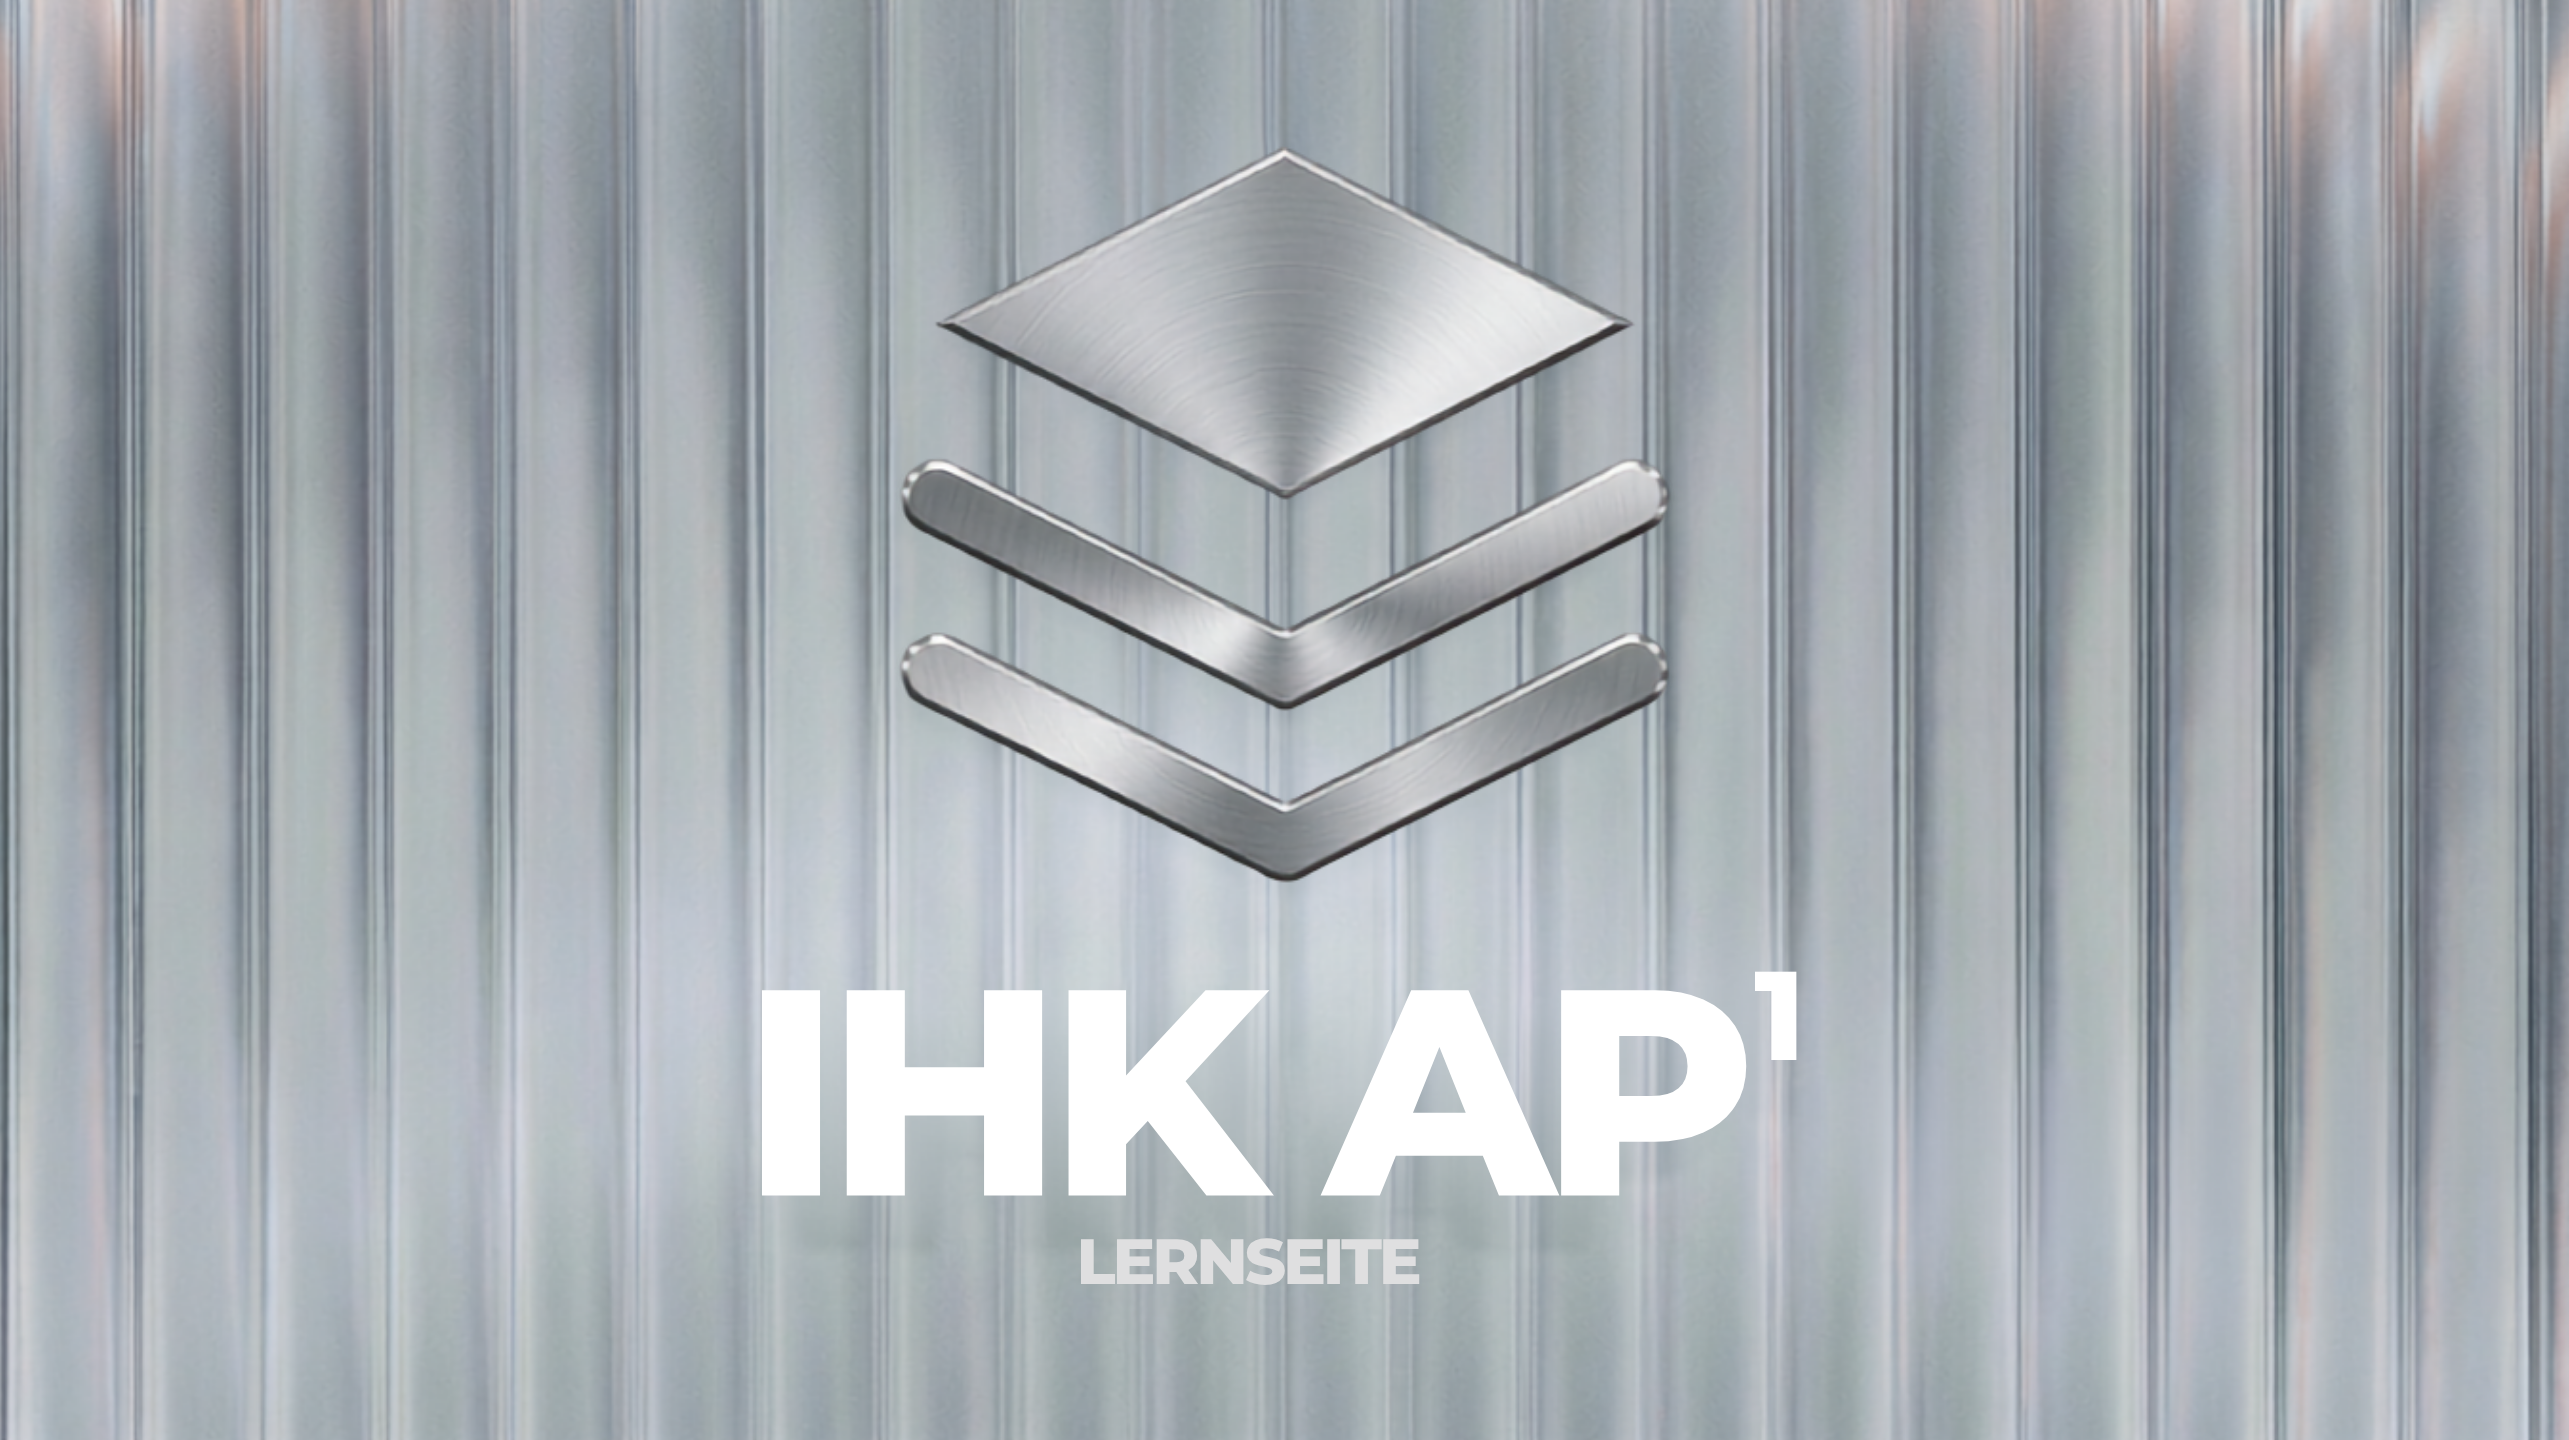
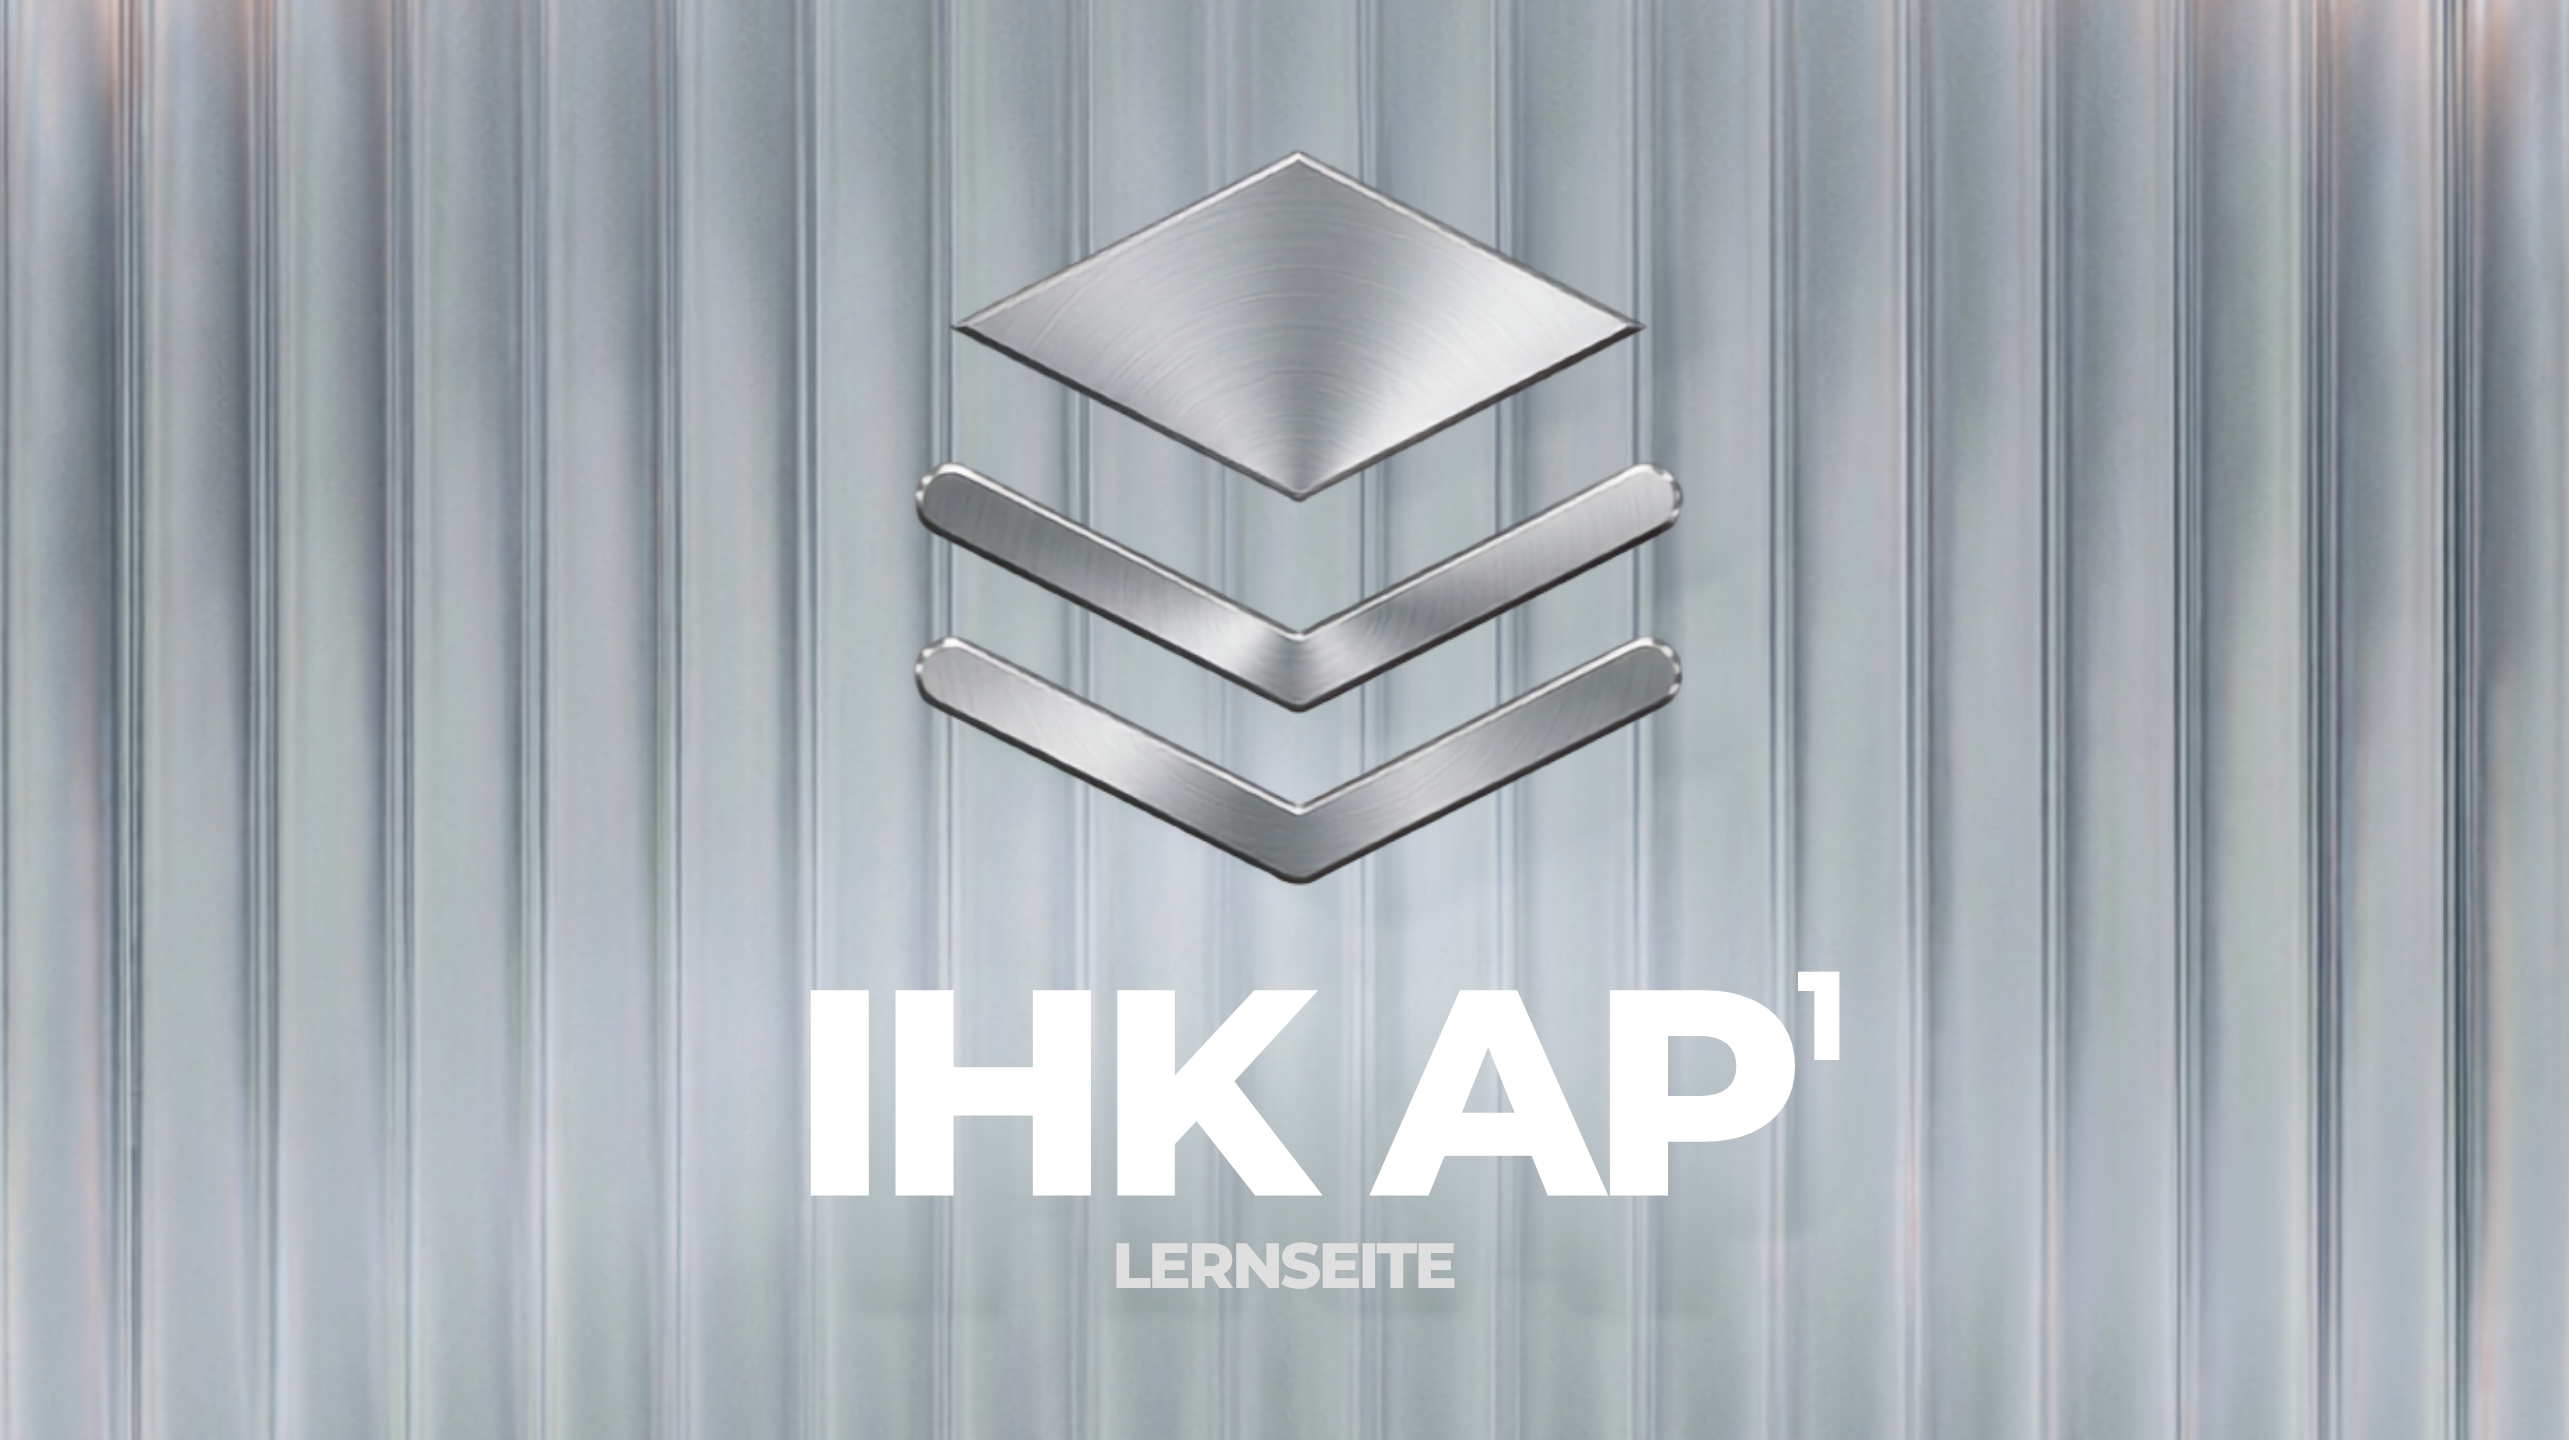
paul-seidel.com

diff --git a/main.js b/main.js
@@ -12,13 +12,13 @@ gsap.registerPlugin(Flip);
 
 // ── Projektdaten ─────────────────────────────────────────────────────────────
 const PROJECTS = [
-  { id: 'noart',                 title: 'NoArt.',             category: { en: 'Web site',  de: 'Webseite'    }, role: { en: 'DESIGN / First Test Website',                   de: 'Design / Erste Webseite'                 }, summary: { en: 'First work building websites with html, css and javascript.',       de: 'Meine erste Webseite mit html, css und javascript.'         },  href: 'https://paul-cs-seidel.github.io/NoArt./',        image: '/assets/projects/noart.png'              },
-  { id: 'siderun',               title: 'SIDERUN',            category: { en: 'Demo site', de: 'Demoseite'   }, role: { en: 'DESIGN / FRONT-END DEVELOPMENT / 3D MODELING',  de: 'デザイン / フロントエンド開発 / 3Dモデリング'  }, summary: { en: 'Web experience for WIRED Innovation Award 2025.',               de: 'WIRED Innovation Award 2025 のWebサイト実装。'              },        href: 'https://paul-cs-seidel.github.io/SideRun/',       image: '/assets/projects/siderun.png'              },
-  { id: 'portfolio_2026',        title: 'Portfolio 2026',     category: { en: 'Web site',  de: 'Webseite'    }, role: { en: 'DESIGN / FRONT-END DEVELOPMENT / 3D MODELING',  de: 'デザイン / フロントエンド開発 / 3Dモデリング'  }, summary: { en: 'Prototype portfolio exploring interactive 3D and frontend motion.', de: 'インタラクティブな3D表現とフロントエンドモーション。'        },         href: 'https://paul-seidel.pages.dev',                   image: '/assets/Hero.png' },
-  { id: 'aurascent',             title: 'AuraScent',          category: { en: 'Web site',  de: 'Webseite'    }, role: { en: 'DESIGN / FRONT-END DEVELOPMENT / 3D MODELING',  de: 'デザイン / フロントエンド開発 / 3Dモデリング'  }, summary: { en: '3D motion demo focused on spatial composition and interaction.',  de: '空間構成とインタラクションにフォーカスした3Dモーションデモ。' },           href: 'https://aurascent-3b4i.onrender.com',              image: '/assets/projects/aurascent.png'             },
-  { id: 'kernwerksystems',       title: 'Kernwerk Systems',    category: { en: 'Web site',  de: 'Webseite'    }, role: { en: 'DESIGN / FRONT-END DEVELOPMENT / 3D MODELING',  de: 'デザイン / フロントエンド開発 / 3Dモデリング'  }, summary: { en: 'Demo exploring project browsing and motion-driven interaction.',  de: 'プロジェクト閲覧とモーションによるインタラクションデモ。'    },           href: 'https://kernwerk-systems.pages.dev',              image: '/assets/projects/kernwerksystems.png'              },
-  { id: 'mensuratemporis',       title: 'Mensura Temporis',    category: { en: 'Demo site', de: 'Demoseite'   }, role: { en: 'DESIGN / FRONT-END DEVELOPMENT',                de: 'デザイン / フロントエンド開発'               }, summary: { en: 'Portfolio site from 2022.',                                      de: '2022年に制作したポートフォリオサイト。'                      },         href: 'https://mensura-temporis.pages.dev',              image: '/assets/projects/mensuratemporis.png'      },
-  { id: 'ihkap1',                title: 'IHK AP 1 Lernseite', category: { en: 'Web site',  de: 'Webseite'    }, role: { en: '3D MODELING / MOTION',                          de: '3Dモデリング / モーション'                  }, summary: { en: 'Showreel presenting motion, WebGL and frontend experiments.',    de: 'モーション・WebGL・フロントエンド表現のショーリール。'       },           href: 'https://paul-cs-seidel.github.io/IHK-Lernseite/',  image: '/assets/projects/ihkap1.png'           }
+  { id: 'noart',                 title: 'NoArt.',             category: { en: 'Web site',  de: 'Webseite'    }, role: { en: 'DESIGN | FRONT-END DEVELOPMENT | CSS FOCUS',            de: 'DESIGN | FRONT-END ENTWICKLUNG | CSS FOKUS'},             summary: { en: 'Minimalist art portfolio - 3D-textured paintings, dark/light theme, scroll animations. Pure HTML, CSS & Vanilla JS.',                                      de: 'Meine erste Webseite mit html, css und javascript.'},                                                       href: 'https://paul-cs-seidel.github.io/NoArt./',        image: '/assets/projects/noart.png'},
+  { id: 'siderun',               title: 'SIDERUN',            category: { en: 'Demo site', de: 'Demoseite'   }, role: { en: 'FUNCTION | FRONT-END DEVELOPMENT | JAVASCRIPT',         de: 'FUNCTION | FRONT-END ENTWICKLUNG | JAVASCRIPT'},          summary: { en: 'SideRun is a tiny front‑end effect: an animated “running” frame. Ideal for navbars, button, and cards. It’s just a small JS runtime plus a CSS file.',     de: 'Ein leichtgewicht JavaScript Project das einen hover running border Effekt baut. '              },          href: 'https://paul-cs-seidel.github.io/SideRun/',       image: '/assets/projects/siderun.png'},
+  { id: 'portfolio_2026',        title: 'Portfolio 2026',     category: { en: 'Web site',  de: 'Webseite'    }, role: { en: 'DESIGN | FRONT-END DEVELOPMENT | ANIMATION',            de: 'DESIGN | FRONT-END ENTWICKLUNG| ANIMATION'},              summary: { en: 'Prototype portfolio exploring interactive 3D and frontend motion.',                                                                                        de: 'インタラクティブな3D表現とフロントエンドモーション。'        },                                                     href: 'https://paul-seidel.pages.dev',                   image: '/assets/Hero.png' },
+  { id: 'aurascent',             title: 'AuraScent',          category: { en: 'Web site',  de: 'Webseite'    }, role: { en: 'DESIGN | FRONT-END DEVELOPMENT | BACKEND DEVELOPMENT',  de: 'DESIGN | FRONT-END ENTWICKLUNG | BACKEND ENTWICKLUNG'},   summary: { en: 'Development of a full-stack web application featuring backend CRUD functionality and a modern frontend.',                                                  de: 'Development of a full-stack web application featuring backend CRUD functionality and a modern frontend.' }, href: 'https://aurascent-3b4i.onrender.com',             image: '/assets/projects/aurascent.png'},
+  { id: 'kernwerksystems',       title: 'Kernwerk Systems',   category: { en: 'Web site',  de: 'Webseite'    }, role: { en: 'DESIGN | FRONT-END DEVELOPMENT | WORDPRESS STYLE',      de: 'DESIGN | FRONT-END ENTWICKLUNG | WORDPRESS STIL'},        summary: { en: 'Demo exploring project browsing and motion-driven interaction.',                                                                                           de: 'プロジェクト閲覧とモーションによるインタラクションデモ。'    },                                                      href: 'https://kernwerk-systems.pages.dev',              image: '/assets/projects/kernwerksystems.png'},
+  { id: 'mensuratemporis',       title: 'Mensura Temporis',   category: { en: 'Demo site', de: 'Demoseite'   }, role: { en: 'DESIGN | FRONT-END DEVELOPMENT | APP STYLE',            de: 'DESIGN | FRONT-END ENTWICKLUNG | APP STIL'},              summary: { en: 'Portfolio site from 2022.',                                                                                                                                de: '2022年に制作したポートフォリオサイト。'                      },                                                  href: 'https://mensura-temporis.pages.dev',              image: '/assets/projects/mensuratemporis.png'},
+  { id: 'ihkap1',                title: 'IHK AP 1 Lernseite', category: { en: 'Web site',  de: 'Webseite'    }, role: { en: 'STUDYING | KNOWLEDGE | LOCAL STORAGE SYSTEM',           de: 'LERNEN | WISSENSÜBERMITTLUNG| LOKALES SPEICHERSYSTEM'},   summary: { en: 'Showreel presenting motion, WebGL and frontend experiments.',                                                                                              de: 'モーション・WebGL・フロントエンド表現のショーリール。'       },                                                    href: 'https://paul-cs-seidel.github.io/IHK-Lernseite/',  image: '/assets/projects/ihkap1.png'}
 ];
 const byId = new Map(PROJECTS.map((p) => [p.id, p]));
 let lang = 'en';